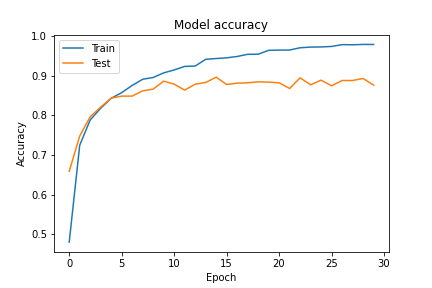
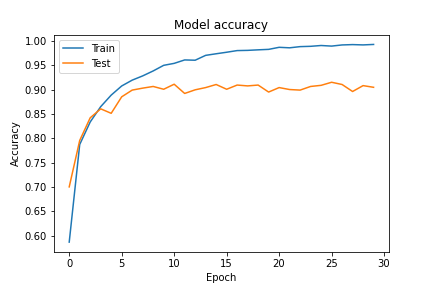
new label and aug

diff --git a/data_prepocess.py b/data_prepocess.py
@@ -83,13 +83,14 @@ if __name__ == '__main__':
     valid_path = 'val_npy/'
     aug = augf.Sometimes([ag.VtlpAug(8000, zone=(0,1)),
                           ag.ShiftAug(8000, 1.5),
-                          ag.SpeedAug(factor=(0.5, 1.5),zone=(0, 1)),
-                          ag.LoudnessAug(zone=(0,1)),
-                          ag.NoiseAug(noises=noise)])    
+                          ag.SpeedAug(factor=(0.8, 1.5), zone=(0, 1)),
+                          ag.LoudnessAug(zone=(0,1), factor=(0.95, 2)),
+                          ag.NoiseAug(noises=noise),
+                          ag.NoiseAug()])    
     for data in X_validation:
         wave, sr = librosa.load('train/'+data[0]+'.wav', sr=None)
         # wave =speech_roi(wave)
-        aug_datas = aug.augment(wave, 9)
+        aug_datas = aug.augment(wave, 14)
         aug_datas.append(wave)
         for aug_data in aug_datas:
             mel = wav2melspec(aug_data, sr)
@@ -115,7 +116,7 @@ if __name__ == '__main__':
     for data in X_train:
         wave, sr = librosa.load('train/'+data[0]+'.wav', sr=None)
         # wave =speech_roi(wave)
-        aug_datas = aug.augment(wave, 9)
+        aug_datas = aug.augment(wave, 14)
         aug_datas.append(wave)
         for aug_data in aug_datas:
             mel = wav2melspec(aug_data, sr)
